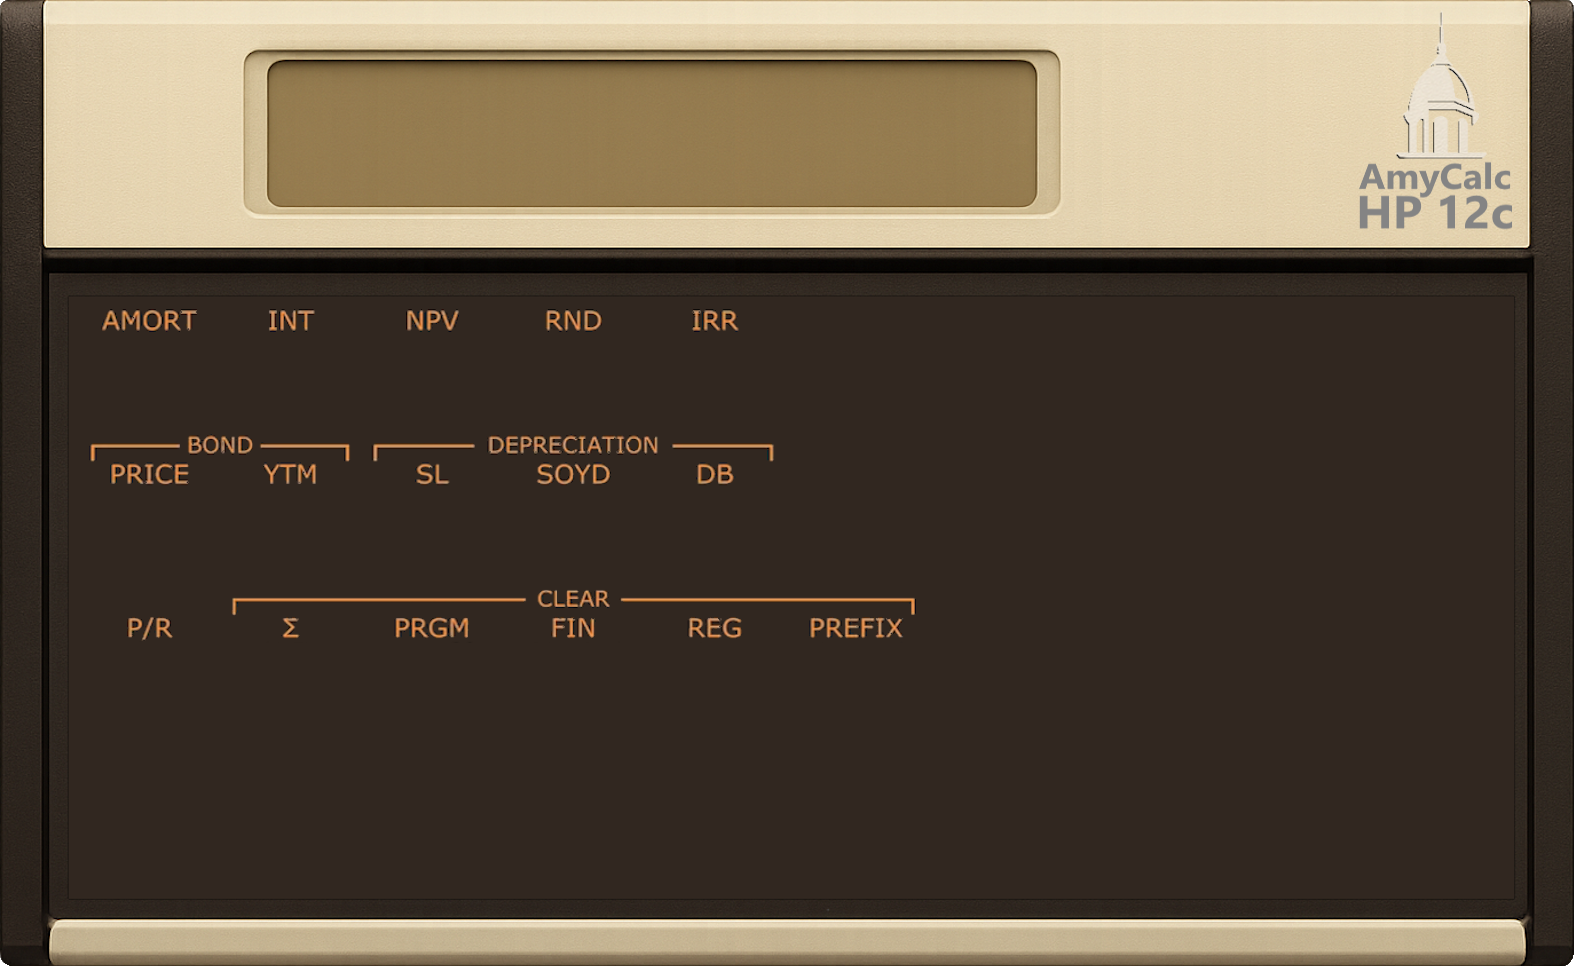
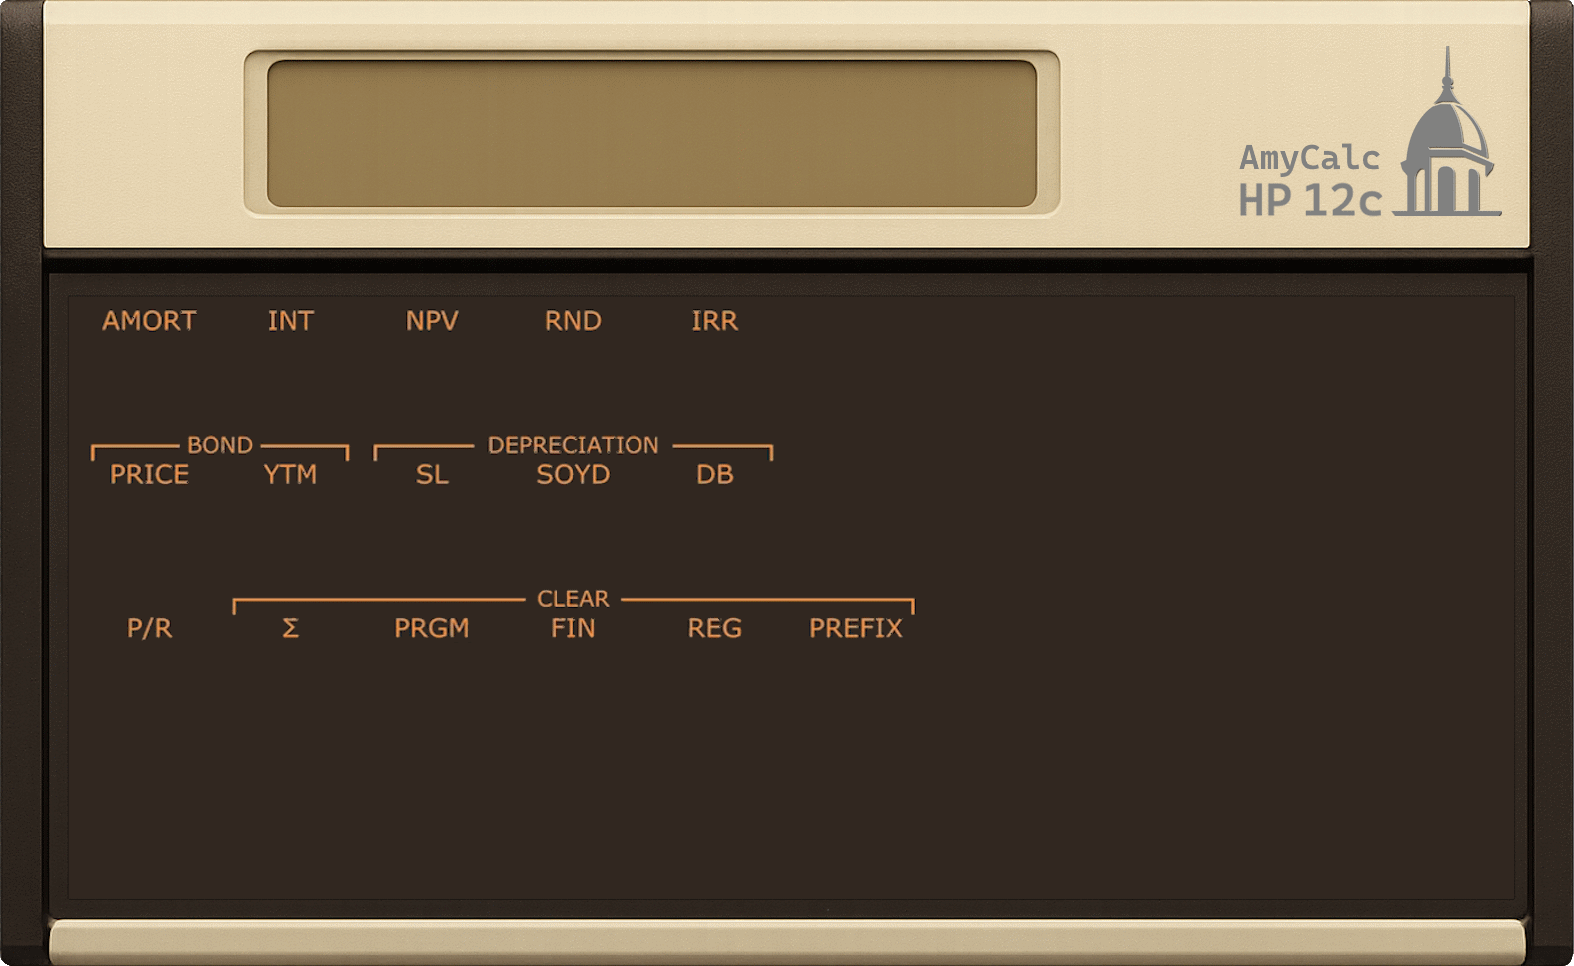
minor style updates.

Changed region(s): [[0.9962, 0.0, 1.0, 0.9938], [0.7783, 0.0311, 0.9651, 0.2484]]

diff --git a/styles.css b/styles.css
@@ -15,9 +15,9 @@ body {
 
 .container {
     display: flex;
-    max-width: 1400px;
+    max-width: 1500px;
     margin: 0 auto;
-    padding: 20px;
+    padding: 30px;
     gap: 30px;
     min-height: 100vh;
 }
@@ -27,8 +27,8 @@ body {
     flex: 2;
     background: white;
     border-radius: 15px;
-    padding: 10px;
-    box-shadow: 0 10px 30px rgba(0, 0, 0, 0.2);
+    padding: 30px;
+    box-shadow: 0 10px 30px rgba(0, 0, 1, 1);
     height: fit-content;
 }
 
@@ -42,7 +42,7 @@ body {
 
 .calculator-container {
     position: relative;
-    max-width: 900px;
+    max-width: 1000px;
     margin: 0 auto;
 }
 
@@ -69,15 +69,15 @@ body {
     display: flex;
     justify-content: space-between;
     font-size: 0.65rem;
-    color: #4a6b2a;
-    margin-top: 3px;
+    color: #18220d;
+    margin-top: -5px;
     padding: 0 6px;
     font-weight: bold;
     background: transparent;
 }
 
 .indicator {
-    opacity: 0.15;
+    opacity: 0.2;
     transition: opacity 0.3s;
 }
 
@@ -252,7 +252,7 @@ body {
     border-radius: 15px;
     padding: 25px;
     padding-top: 10px;
-    box-shadow: 0 10px 30px rgba(0, 0, 0, 0.2);
+    box-shadow: 0 10px 30px rgba(0, 0, 1, 1);
     max-height: 90vh;
     display: flex;
     flex-direction: column;

diff --git a/calculator.js b/calculator.js
@@ -1475,16 +1475,18 @@ class HP12cCalculator {
     // Date formats
     setDateFormatDMY() {
         this.dateFormat = 'DMY';
-        this.addStep('Set date format to D.MY', 'D.MY');
-        this.display = 'D.MY';
-        setTimeout(() => this.updateDisplay(), 1000);
+        const indicator = document.getElementById('dmy-indicator');
+        if (indicator) {
+            indicator.classList.add('active');
+        }
     }
     
     setDateFormatMDY() {
         this.dateFormat = 'MDY';
-        this.addStep('Set date format to M.DY', 'M.DY');
-        this.display = 'M.DY';
-        setTimeout(() => this.updateDisplay(), 1000);
+        const indicator = document.getElementById('dmy-indicator');
+        if (indicator) {
+            indicator.classList.remove('active');
+        }
     }
     
     // Statistical functions

diff --git a/index.html b/index.html
@@ -7,8 +7,8 @@
     <link rel="preconnect" href="https://fonts.googleapis.com">
     <link rel="preconnect" href="https://fonts.gstatic.com" crossorigin>
     <link href="https://fonts.googleapis.com/css2?family=Orbitron:wght@400&family=Share+Tech+Mono&display=swap" rel="stylesheet">
-    <link rel="stylesheet" href="styles.css?v=70">
-    <script src="calculator.js?v=69"></script>
+    <link rel="stylesheet" href="styles.css?v=72">
+    <script src="calculator.js?v=79"></script>
 </head>
 <body>
     <div class="container">
